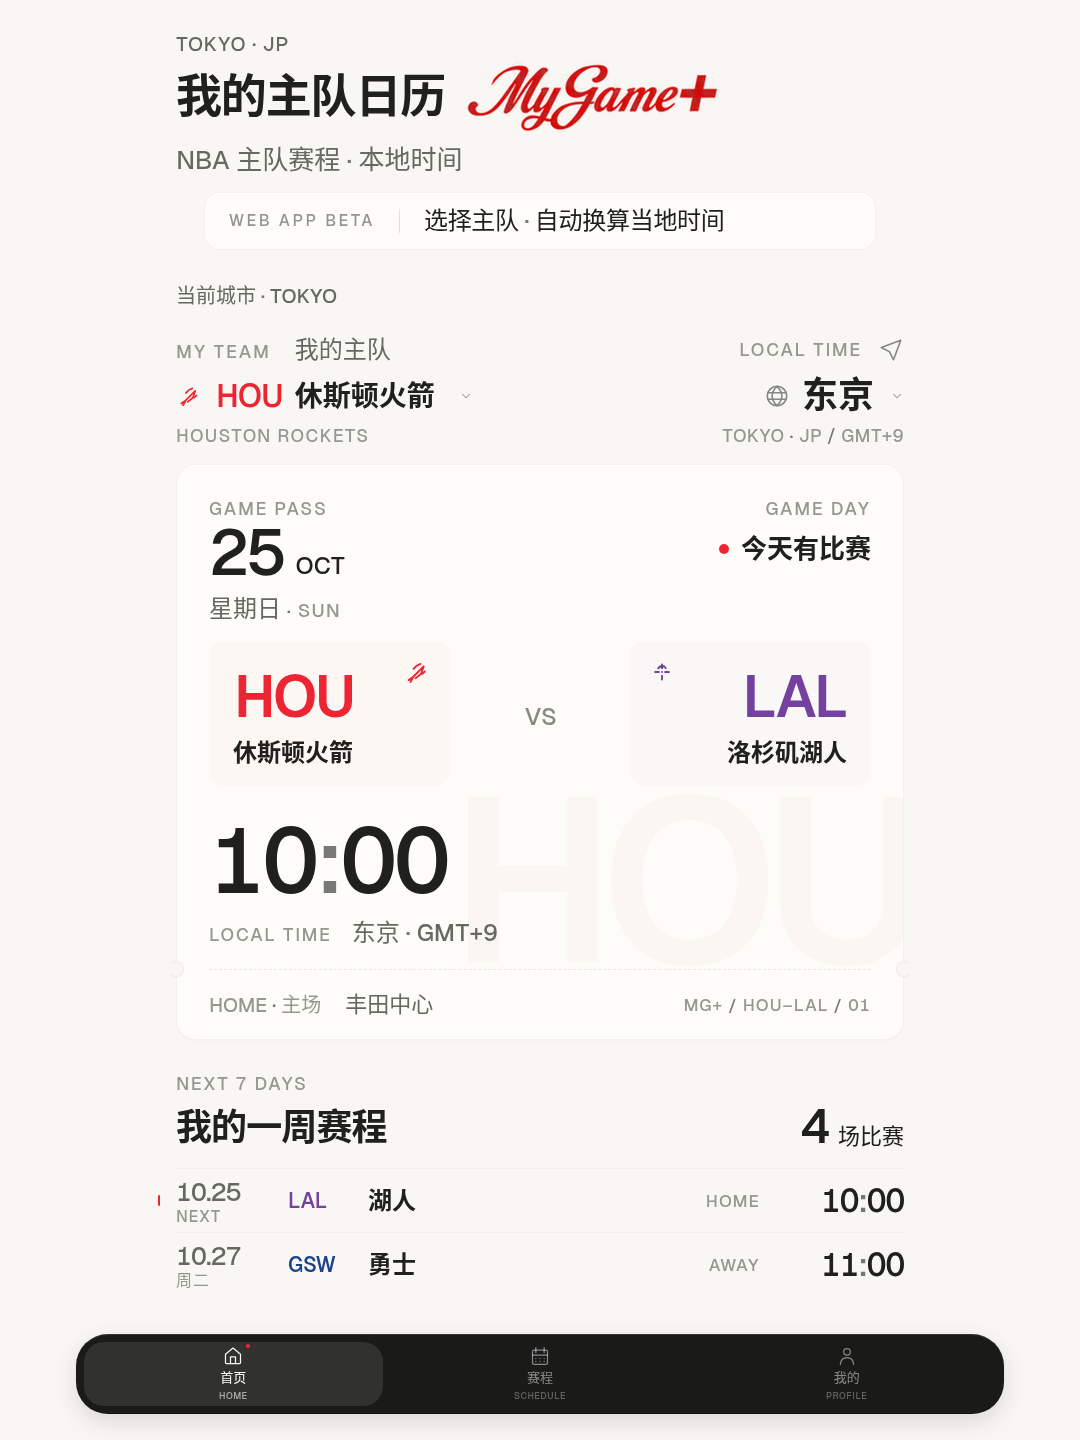
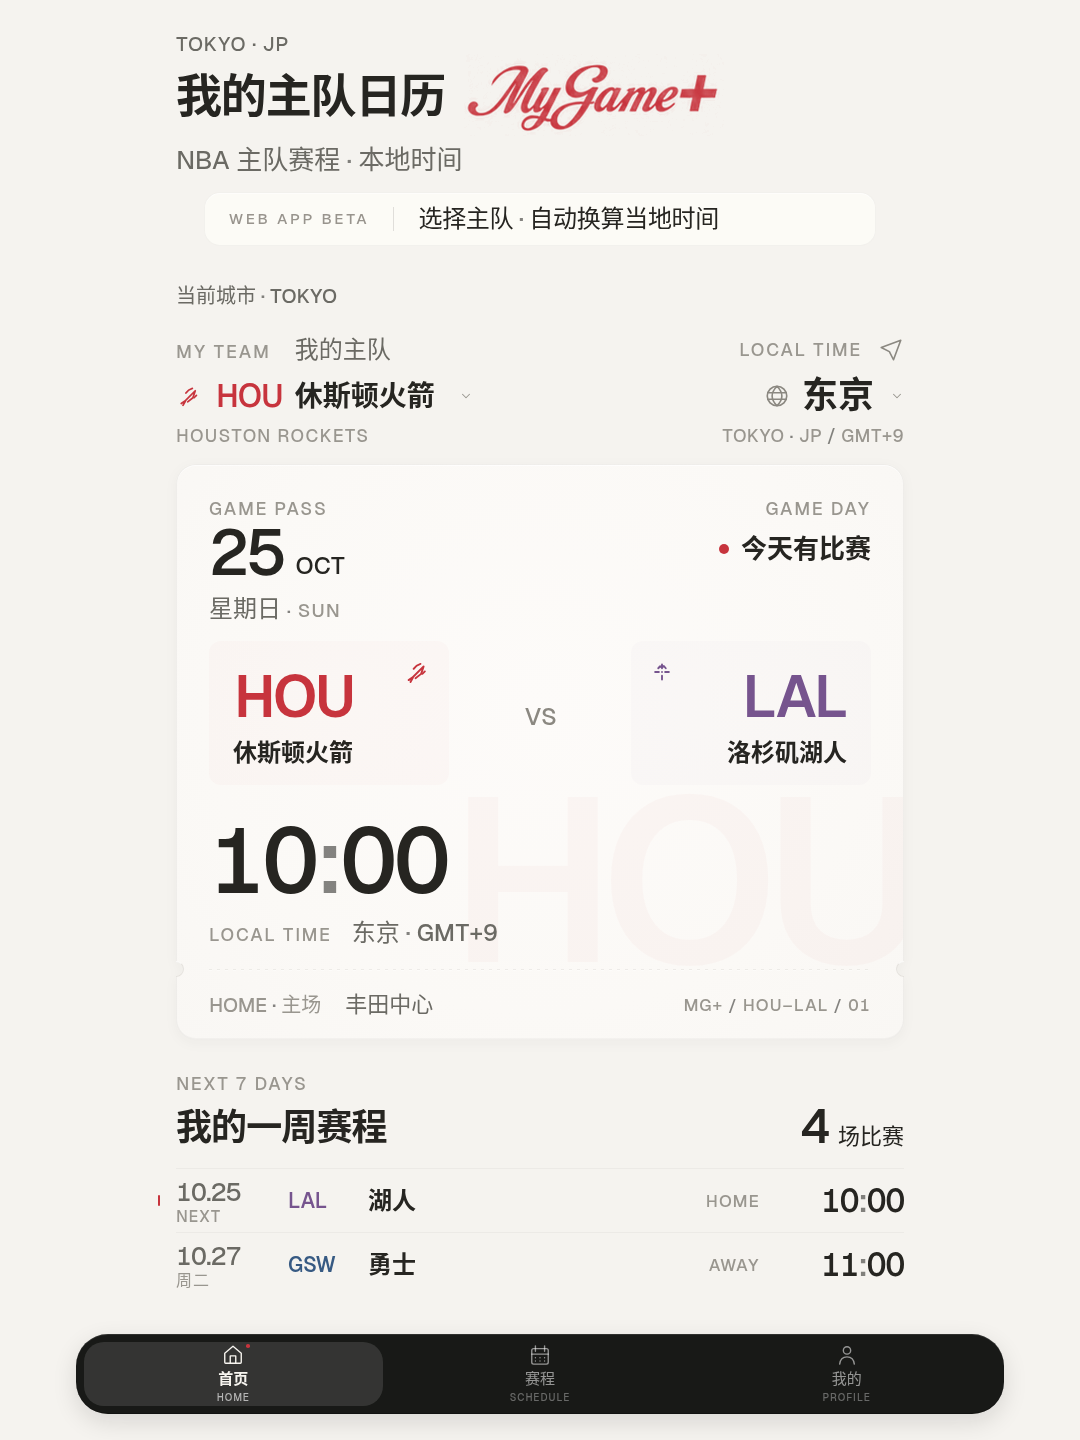
Polish MyGame+ promo V1.4 luxury sports materials

diff --git a/design/promo/promo.html b/design/promo/promo.html
@@ -2,13 +2,14 @@
 <html lang="zh-CN">
 <meta charset="utf-8">
 <meta name="viewport" content="width=1080, initial-scale=1">
-<title>MyGame+ Promo V1.2 — System Island</title>
+<title>MyGame+ Promo V1.4 — Luxury Sports Material System</title>
 <link rel="stylesheet" href="system-island.css">
 <style>
 @font-face{font-family:Geist;src:url('GeistSans.woff2') format('woff2');font-weight:100 900;font-display:block}
 :root{
- --canvas:#f8f7f3;--paper:#fefdf9;--primary:#20211f;--secondary:#666862;--tertiary:#959791;
- --hairline:rgba(20,20,20,.040);--red:#ed2533;--hou:#ed2533;--lal:#7541a0;--gsw:#1d428a;
+ --canvas:#f5f3ef;--paper:#fbf9f6;--paper-center:#fdfbf9;--paper-edge:#f9f7f4;
+ --primary:#262521;--secondary:#6b6a64;--tertiary:#99968f;
+ --hairline:rgba(20,20,20,.038);--red:#c7343d;--hou:#c7343d;--lal:#76548e;--gsw:#375a83;
  --radius-team:12px;--radius-beta:16px;--radius-pass:20px;--radius-dock:32px;
  --space-1:4px;--space-2:8px;--space-3:12px;--space-4:16px;--space-5:20px;--space-6:24px;--space-8:32px;--space-10:40px;--space-12:48px;
  --type-time:48px;--promo-time-scale:1.9166666667;
@@ -19,36 +20,37 @@ main{position:relative;width:1080px;height:1440px;isolation:isolate}h1,h2,p{marg
 svg{display:block;overflow:visible;fill:none;stroke:currentColor;stroke-width:1.5;stroke-linecap:round;stroke-linejoin:round;flex:none}
 svg *{vector-effect:non-scaling-stroke}
 .number{font-variant-numeric:tabular-nums;font-feature-settings:'tnum';font-weight:530;letter-spacing:-.035em;white-space:nowrap}
-.separator{color:rgba(32,33,31,.60)}.micro{color:var(--tertiary);font-size:18px;font-weight:500;letter-spacing:.10em;line-height:24px}
+.separator{color:rgba(38,37,33,.56)}.micro{color:var(--tertiary);font-size:18px;font-weight:500;letter-spacing:.10em;line-height:24px}
 .top-label{position:absolute;left:176px;top:32px;width:728px;height:24px;font-size:20px;line-height:24px;letter-spacing:.035em;font-weight:480;color:var(--secondary)}
 .brand{position:absolute;left:176px;top:64px;width:728px;height:64px;display:flex;align-items:center}
 .brand h1{font-size:46px;line-height:64px;font-weight:600;letter-spacing:-.025em}
-.wordmark{position:absolute;left:288px;top:-10px;width:260px;height:82px;object-fit:contain}
+.wordmark{position:absolute;left:288px;top:-10px;width:260px;height:82px;background:var(--red);mask:url('wordmark.png') center/contain no-repeat}
 .subtitle{position:absolute;left:176px;top:144px;width:728px;height:32px;font-size:26px;line-height:32px;font-weight:450;color:var(--secondary)}
-.beta{position:absolute;left:204px;top:192px;width:672px;height:58px;border-radius:var(--radius-beta);background:rgba(255,254,251,.78);border:1px solid rgba(20,20,20,.048);box-shadow:inset 0 1px 0 rgba(255,255,255,.62);backdrop-filter:blur(12px);display:flex;align-items:center;padding:0 24px;gap:24px}
-.beta-label{font-size:16px;font-weight:500;letter-spacing:.16em;line-height:24px;color:#92948d;white-space:nowrap}
+.beta{position:absolute;left:204px;top:192px;width:672px;height:54px;border-radius:var(--radius-beta);background:rgba(255,253,250,.70);border:1px solid rgba(20,20,20,.044);box-shadow:inset 0 1px 0 rgba(255,255,255,.60);backdrop-filter:blur(10px);display:flex;align-items:center;padding:0 24px;gap:24px}
+.beta-label{font-size:15px;font-weight:500;letter-spacing:.18em;line-height:24px;color:#98948d;white-space:nowrap}
 .divider{width:1px;height:24px;background:rgba(20,20,20,.12);flex:none}
 .beta-copy{font-size:24px;font-weight:500;letter-spacing:-.012em;line-height:32px;white-space:nowrap}
 .city-status{position:absolute;left:176px;top:280px;width:728px;height:32px;font-size:20px;line-height:32px;font-weight:500;color:var(--secondary)}
-.city-status .route{color:#555750}
+.city-status .route{color:#5c5a54}
 .identity{position:absolute;left:176px;top:336px;width:728px;height:112px}
 .identity-label{position:absolute;top:0;left:0;height:28px;width:420px;display:flex;gap:24px;align-items:baseline}
 .identity-label .cn{font-size:24px;letter-spacing:0;line-height:28px;color:var(--secondary);font-weight:500}
 .local-label{position:absolute;right:0;top:0;display:flex;align-items:center;gap:16px;height:28px}
-.local-label svg{width:26px;height:26px;color:#858882}
+.local-label svg{width:26px;height:26px;color:#8b8881}
 .team-preference{position:absolute;left:0;top:40px;display:flex;align-items:center;gap:12px;height:40px;white-space:nowrap}
 .team-preference svg{width:28px;height:28px;color:var(--hou)}
 .team-preference .code{font-size:32px;line-height:40px;font-weight:550;letter-spacing:-.025em;color:var(--hou)}
 .team-preference .name{font-size:28px;line-height:40px;font-weight:550}
 .team-preference .chevron{width:14px;height:14px;margin-left:12px;color:var(--tertiary)}
 .city-control{position:absolute;right:0;top:36px;display:flex;align-items:center;height:48px;gap:12px}
-.city-control .globe{width:26px;height:26px;color:#858882}
+.city-control .globe{width:26px;height:26px;color:#8b8881}
 .city-control .city{font-size:36px;line-height:48px;font-weight:600;min-width:72px}
 .city-control .chevron{width:14px;height:14px;color:var(--tertiary);margin-left:4px}
 .identity-english{position:absolute;left:0;top:88px;width:370px;height:24px;font-size:18px;line-height:24px;font-weight:480;letter-spacing:.07em;color:var(--tertiary)}
 .offset{left:auto;right:0;width:360px;text-align:right;letter-spacing:.025em;font-variant-numeric:tabular-nums}
-.pass{position:absolute;left:176px;top:464px;width:728px;height:576px;border-radius:var(--radius-pass);background:var(--paper);border:1px solid rgba(20,20,20,.05);box-shadow:inset 0 1px 0 rgba(255,255,255,.55),0 1px 2px rgba(20,20,20,.020)}
-.paper-texture{position:absolute;inset:1px;z-index:0;background-image:url('paper-material.png');background-repeat:repeat;opacity:.12;border-radius:19px;pointer-events:none}
+.pass{position:absolute;left:176px;top:464px;width:728px;height:576px;border-radius:var(--radius-pass);background:transparent;border:1px solid transparent;filter:drop-shadow(0 3px 6px rgba(20,20,20,.035))}
+/* The paper is physically masked at the two original punch positions. Shadows follow its silhouette. */
+.pass::before{content:'';position:absolute;inset:-1px;z-index:0;border-radius:inherit;border:1px solid rgba(20,20,20,.048);background:radial-gradient(ellipse at 50% 42%,var(--paper-center) 0%,var(--paper) 65%,var(--paper-edge) 100%);box-shadow:inset 0 1px 0 rgba(255,255,255,.62),inset 0 -1px 0 rgba(20,20,20,.032);mask-image:radial-gradient(circle 8px at 0 505px,transparent 7.35px,#000 8.15px),radial-gradient(circle 8px at 100% 505px,transparent 7.35px,#000 8.15px);mask-composite:intersect}
 .pass-content{position:absolute;inset:0;z-index:1;border-radius:inherit;overflow:hidden}
 .pass-label{position:absolute;left:32px;top:32px}
 .date{position:absolute;left:32px;top:56px;height:64px;display:flex;align-items:baseline;gap:12px}
@@ -59,26 +61,27 @@ svg *{vector-effect:non-scaling-stroke}
 .game-day{position:absolute;right:32px;top:32px;text-align:right}
 .game-status{margin-top:12px;display:flex;align-items:center;justify-content:flex-end;gap:12px;font-size:26px;line-height:32px;font-weight:550}
 .sports-dot{width:10px;height:10px;border-radius:50%;background:var(--hou);flex:none}
-.team-tint{position:absolute;left:32px;top:176px;width:240px;height:144px;border-radius:var(--radius-team);background:rgba(237,37,51,.023)}
-.team-tint.away{left:auto;right:32px;background:rgba(117,65,160,.025);text-align:right}
+.team-tint{position:absolute;left:32px;top:176px;width:240px;height:144px;border-radius:var(--radius-team);background:radial-gradient(ellipse at 50% 42%,rgba(199,52,61,.014),rgba(199,52,61,.024))}
+.team-tint.away{left:auto;right:32px;background:radial-gradient(ellipse at 50% 42%,rgba(118,84,142,.014),rgba(118,84,142,.025));text-align:right}
 .team-symbol{position:absolute;right:16px;top:16px;width:30px;height:30px;color:var(--hou)}
 .away .team-symbol{right:auto;left:16px;color:var(--lal)}
 .team-abbr{position:absolute;left:24px;top:24px;height:64px;font-size:58px;line-height:64px;font-weight:600;letter-spacing:-.035em;color:var(--hou);transform:translateX(1px)}
 .away .team-abbr{left:auto;right:24px;transform:translateX(-1px);color:var(--lal)}
 .team-chinese{position:absolute;left:24px;top:96px;font-size:24px;line-height:32px;font-weight:550;white-space:nowrap}
 .away .team-chinese{left:auto;right:24px}
-.versus{position:absolute;left:328px;top:236px;width:72px;text-align:center;font-size:24px;line-height:32px;color:#878982;font-weight:500;letter-spacing:.02em}
+.versus{position:absolute;left:328px;top:236px;width:72px;text-align:center;font-size:24px;line-height:32px;color:#8b8881;font-weight:500;letter-spacing:.02em}
 .watermark{position:absolute;right:-12px;top:300px;width:470px;height:220px;font-size:232px;line-height:1;font-weight:600;letter-spacing:-.055em;color:var(--hou);opacity:.022;text-align:right;pointer-events:none;user-select:none}
 .tipoff{position:absolute;left:32px;top:344px;width:560px;height:104px;font-size:calc(var(--type-time)*var(--promo-time-scale));line-height:104px}
 .time-caption{position:absolute;left:32px;top:452px;height:32px;display:flex;align-items:baseline;gap:20px}
 .time-caption .caption-state{font-size:24px;line-height:32px;font-weight:500;color:var(--secondary);font-variant-numeric:tabular-nums}
-.perforation{position:absolute;left:32px;right:32px;top:504px;border-top:1px dashed rgba(20,20,20,.085)}
+.perforation{position:absolute;left:32px;right:32px;top:504px;height:2px;background-image:repeating-linear-gradient(90deg,rgba(67,59,48,.075) 0 3px,transparent 3px 8px),repeating-linear-gradient(90deg,rgba(255,255,255,.42) 0 3px,transparent 3px 8px);background-size:8px .65px,8px .5px;background-position:0 0,0 1px;background-repeat:repeat-x}
 .stub{position:absolute;left:32px;right:32px;top:520px;height:40px;display:flex;align-items:center;justify-content:space-between;gap:24px}
 .venue{display:flex;gap:24px;align-items:baseline;font-size:22px;line-height:32px;font-weight:500;color:var(--secondary);white-space:nowrap}
 .venue-status{color:var(--tertiary);font-size:20px;font-weight:480}
 .serial{font-size:17px;font-weight:500;letter-spacing:.06em;color:var(--tertiary);white-space:nowrap;font-variant-numeric:tabular-nums}
-.notch{position:absolute;top:496px;width:16px;height:16px;border:1px solid rgba(20,20,20,.05);border-radius:50%;background:var(--canvas);z-index:2}
-.notch.left{left:-9px;border-left-color:transparent}.notch.right{right:-9px;border-right-color:transparent}
+.notch{position:absolute;top:496px;width:16px;height:16px;border-radius:50%;background:transparent;z-index:2;pointer-events:none}
+.notch::before{content:'';position:absolute;inset:0;border:1px solid rgba(43,37,28,.06);border-top-color:rgba(255,255,255,.62);border-bottom-color:rgba(43,37,28,.07);border-radius:inherit}
+.notch.left{left:-9px;clip-path:inset(-1px -1px -1px 50%)}.notch.right{right:-9px;clip-path:inset(-1px 50% -1px -1px)}
 .week{position:absolute;left:176px;top:1072px;width:728px;height:224px}
 .week-label{position:absolute;left:0;top:0;height:24px}
 .week h2{position:absolute;left:0;top:32px;height:48px;font-size:36px;line-height:48px;font-weight:600;letter-spacing:-.025em}
@@ -98,7 +101,7 @@ svg *{vector-effect:non-scaling-stroke}
 .row-venue{font-size:17px;line-height:24px;font-weight:500;color:var(--tertiary);letter-spacing:.07em;text-align:right}
 .row-time{font-size:32px;line-height:40px;font-weight:530;text-align:right}
 .dock{position:absolute;left:76px;top:1334px;width:928px;height:80px}
-@supports not (backdrop-filter:blur(12px)){.beta{background:rgba(255,254,251,.97)}}
+@supports not (backdrop-filter:blur(10px)){.beta{background:rgba(255,253,250,.97)}}
 </style>
 <main aria-label="MyGame+ 宣传图">
  <svg width="0" height="0" style="position:absolute" aria-hidden="true"><defs>
@@ -112,7 +115,7 @@ svg *{vector-effect:non-scaling-stroke}
   <symbol id="user" viewBox="0 0 24 24"><circle cx="12" cy="7" r="4"/><path d="M4 22c.5-5 3.2-8 8-8s7.5 3 8 8"/></symbol>
  </defs></svg>
  <div class="top-label" data-state data-fit id="top-label"></div>
- <header class="brand"><h1>我的主队日历</h1><img class="wordmark" src="wordmark.png" alt="MyGame+"></header>
+ <header class="brand"><h1>我的主队日历</h1><span class="wordmark" role="img" aria-label="MyGame+"></span></header>
  <p class="subtitle" data-fit>NBA 主队赛程<span class="separator"> · </span>本地时间</p>
  <section class="beta" data-fit><span class="beta-label">WEB APP BETA</span><span class="divider"></span><span class="beta-copy">选择主队<span class="separator"> · </span>自动换算当地时间</span></section>
  <p class="city-status" data-state data-fit id="city-status"></p>
@@ -124,7 +127,6 @@ svg *{vector-effect:non-scaling-stroke}
   <div class="identity-english">HOUSTON ROCKETS</div><div class="identity-english offset" data-state data-fit id="offset"></div>
  </section>
  <section class="pass">
-  <div class="paper-texture"></div>
   <div class="pass-content">
    <div class="watermark" aria-hidden="true">HOU</div>
    <div class="pass-label micro">GAME PASS</div>

diff --git a/src/styles/system-island.css b/src/styles/system-island.css
@@ -1,12 +1,13 @@
 :root {
-  --island-surface: #1a1b19;
+  --island-surface: #181917;
   --island-radius: 32px;
   --island-active-radius: 20px;
-  --island-active-surface: rgba(255,255,255,.10);
-  --island-text-active: #f9f8f4;
-  --island-text-inactive: rgba(255,255,255,.48);
-  --island-label-active: rgba(255,255,255,.60);
-  --island-label-inactive: rgba(255,255,255,.32);
+  --island-active-surface: rgba(255,255,255,.12);
+  --island-text-active: #f7f5f0;
+  --island-text-inactive: rgba(255,255,255,.54);
+  --island-label-active: rgba(255,255,255,.64);
+  --island-label-inactive: rgba(255,255,255,.35);
+  --island-signal: #c7343d;
   --island-motion: 180ms ease-out;
 }
 
@@ -16,10 +17,10 @@
   border: 0;
   border-radius: var(--island-radius);
   color: var(--island-text-active);
-  box-shadow: inset 0 1px 0 rgba(255,255,255,.11),
-    inset 0 -1px 0 rgba(0,0,0,.22),
-    0 8px 24px rgba(10,10,10,.12),
-    0 0 0 1px rgba(255,255,255,.035);
+  box-shadow: inset 0 1px 0 rgba(255,255,255,.10),
+    inset 0 -1px 0 rgba(0,0,0,.26),
+    0 8px 24px rgba(15,15,15,.12),
+    0 0 0 1px rgba(255,255,255,.025);
   isolation: isolate;
 }
 .system-island-items {
@@ -36,7 +37,7 @@
   border-radius: var(--island-active-radius);
   color: var(--island-text-inactive);
   min-width: 0;
-  padding: 4px 0;
+  padding: 2px 0;
   position: relative;
   display: flex;
   flex-direction: column;
@@ -49,8 +50,8 @@
 }
 .system-island-item svg {
   display: block;
-  width: 20px;
-  height: 20px;
+  width: 22px;
+  height: 22px;
   flex: none;
   fill: none;
   stroke: currentColor;
@@ -58,11 +59,13 @@
   stroke-linecap: round;
   stroke-linejoin: round;
 }
-.system-island-item .island-cn { font-size: 13px; line-height: 18px; font-weight: 500; }
-.system-island-item .island-en { font-size: 9px; line-height: 12px; font-weight: 500; letter-spacing: .065em; color: var(--island-label-inactive); }
+.system-island-item svg * { vector-effect: non-scaling-stroke; }
+.system-island-item .island-cn { font-size: 15px; line-height: 20px; font-weight: 500; }
+.system-island-item .island-en { font-size: 10px; line-height: 12px; font-weight: 480; letter-spacing: .10em; color: var(--island-label-inactive); }
 .system-island-item[aria-current="page"] { background: var(--island-active-surface); color: var(--island-text-active); }
+.system-island-item[aria-current="page"] .island-cn { font-weight: 550; }
 .system-island-item[aria-current="page"] .island-en { color: var(--island-label-active); }
-.system-island-item[aria-current="page"]::after { content: ""; position: absolute; top: 2px; left: calc(50% + 13px); width: 3.6px; height: 3.6px; border-radius: 50%; background: var(--brand-accent,#ed2533); }
+.system-island-item[aria-current="page"]::after { content: ""; position: absolute; top: 2px; left: calc(50% + 13px); width: 3.6px; height: 3.6px; border-radius: 50%; background: var(--island-signal); }
 .system-island-item:focus-visible { outline: 1px solid rgba(255,255,255,.65); outline-offset: -3px; }
 
 .island-context-row { display: grid; grid-template-rows: 0fr; opacity: 0; transition: grid-template-rows var(--island-motion), opacity var(--island-motion); }

diff --git a/src/app/globals.css b/src/app/globals.css
@@ -10,7 +10,7 @@
   --text-tertiary: #989a94;
   --border-subtle: rgba(32,33,31,.065);
   --border-program: rgba(32,33,31,.04);
-  --brand-accent: #d63832;
+  --brand-accent: #c7343d;
   --radius-pass: 12px;
   --radius-team: 8px;
   --radius-small: 4px;

diff --git a/docs/system-island.md b/docs/system-island.md
@@ -1,20 +1,31 @@
-# MyGame+ Promo V1.2 — System Island
+# MyGame+ Promo V1.4 — Luxury Sports Material System
 
-Deep warm graphite belongs to system controls. Sports content remains warm matte paper.
-The existing team identity symbols, schedule data, timezones and brand structure are unchanged.
+System is engineered. Game is tactile.
+V1.4 refines material, color and legibility only. Existing information architecture, team identity symbols, schedule data, timezones and V1.2 contextual interaction logic are unchanged.
 
 ## Shared material and navigation
 
 `src/styles/system-island.css` is used by the real App and both promotional exports.
 
-- Surface: `#1A1B19`; radius: 32px; active segment: white 10%, radius 20px, no border.
-- Top inset: white 11%; bottom inset: black 22%; outside shadow: 0 8px 24px, black 12%; soft edge: white 3.5%.
-- Active icon/Chinese: warm white; English: white 60%; small brand-red dot.
-- Inactive icon/Chinese: white 48%; English: white 32%.
-- Three equal tracks; 20px icons, 1.5px rounded strokes; identical icon and text baselines.
+- Surface: `#181917`; radius: 32px; active segment: white 12%, radius 20px, no border.
+- Top inset: white 10%; bottom inset: black 26%; outside shadow: 0 8px 24px, black 12%; soft edge: white 2.5%.
+- Active icon/Chinese: warm white, Chinese weight 550; English: white 64%; 3.6px signal-red dot.
+- Inactive icon/Chinese: white 54%; English: white 35%.
+- Chinese: 15px/20px, weight 500 (active 550). English: 10px/12px, weight 480, tracking .10em.
+- Three equal tracks; 22px icons, 1.5px rounded strokes with non-scaling paths; identical icon and text baselines. The 80px outer height is retained.
 - Promo island: x=76, y=1334, width=928, height=80, bottom=26 on a 1080×1440 canvas. Schedule ends at y=1296.
-- Mini status surface: x=204, y=192, width=672, height=58, radius=16; warm white 78%, blur 12px, border 4.8%.
-- GAME PASS remains paper, with cutouts, perforation, watermark and subtle team tint. No dark sports surfaces.
+- Mini status surface: x=204, y=192, width=672, height=54 (6.9% reduction), radius=16; warm white 70%, blur 10px, border 4.4%.
+
+## Warm stone, tactile paper, signal color
+
+- Canvas: `#F5F3EF`, a quiet warm-stone editorial background.
+- Paper: `#FBF9F6`; central light `#FDFBF9`; settled edge `#F9F7F4`. The very low-contrast radial light is luminance-only; the pass has no blur or glossy reflection.
+- Paper edge: white 62% top inset, dark 3.2% bottom inset, a 4.8% hairline. A low `drop-shadow(0 3px 6px rgba(20,20,20,.035))` follows the genuinely cut silhouette.
+- Exactly two original 16px side punch positions are retained. The paper surface uses intersecting radial masks; the holes reveal Canvas. A faint white upper arc and darker inner arc describe the cut edge.
+- The tear guide uses a regular 8px pitch (3px mark / 5px gap), 0.65px ink and a restrained 0.5px light edge. It stays centered on the cutouts, without a groove.
+- Identity patches retain 12px radii with no border or shadow. Pale red/purple ink varies only from 1.4% in the center to about 2.4–2.5% at the edge, weaker than the pass lighting.
+- Unified signal red: `#C7343D`; LAL purple: `#76548E`; GSW blue: `#375A83`. Color encodes identity/state. The MyGame+ script silhouette is reused as a mask, changing ink color without reshaping the mark.
+- Ordinary city/identity/schedule regions remain flat. Dividers use 3.8% opacity; no additional boxes or shadows are introduced there.
 
 ## Contextual Island State in the real App
 
@@ -48,7 +59,7 @@ Output:
 
 The exporter verifies dimensions, complete PNG decoding, Geist readiness, text fit, radius and geometry, navigation alignment, equal material parameters and pixel-identical islands.
 It also confirms that differences between the two images occur only in city, GMT, time and city-transition text regions.
-The validation report is written to `/tmp/mygame-promo-v1.2-validation.json` rather than checked in as a generated artifact.
+The validation report is written to `/tmp/mygame-promo-v1.4-validation.json` rather than checked in as a generated artifact.
 
 With the App running locally, run `node design/promo/check-app.cjs` (`MYGAME_APP_URL` defaults to `http://127.0.0.1:3200`).
 This checks real city/team navigation, fixture/no-fixture states, context dismissal, reduced motion and 320/390/480/1080px safe areas.
